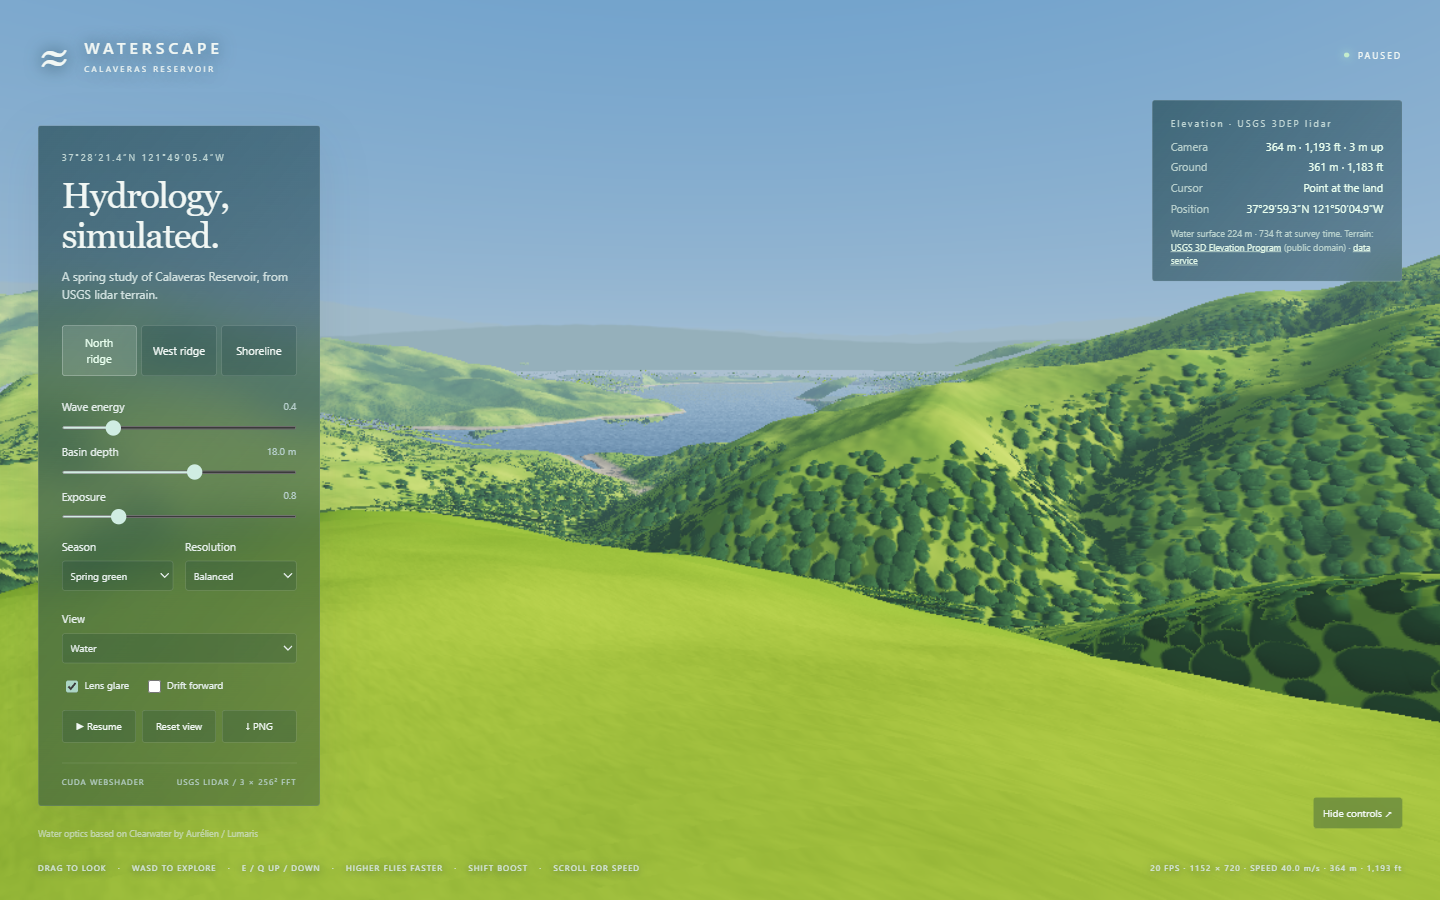
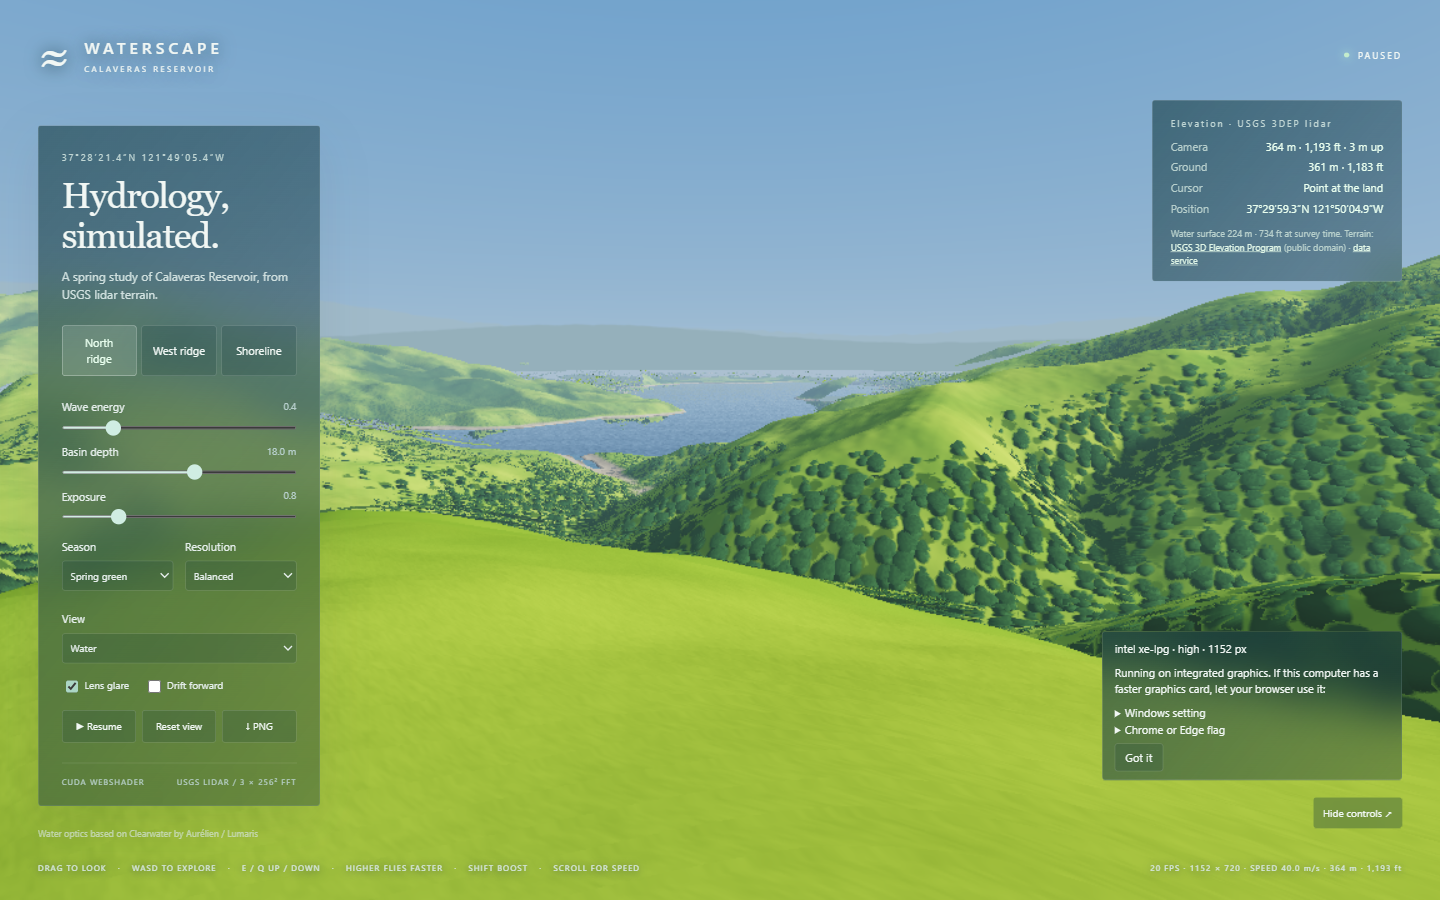
Show the GPU and quality, and how to use a faster GPU
A chip names the adapter and tier in 3D; on Intel graphics (or the low
tier) a dismissable tip explains the Windows graphics setting and the
Chrome/Edge flag, since browsers ignore a page's GPU preference.

Changed region(s): [[0.75, 0.6844, 1.0, 0.8711]]

diff --git a/renderer/explore.js b/renderer/explore.js
@@ -1,6 +1,6 @@
 import { GpuRuntime } from "../vendor/cuda-webshader/runtime/runtime.js";
 import { formatElevation, formatLatLon, loadTerrain } from "./terrain.js";
-import { LEVELS, QualityGovernor, forcedTier, startingLevel } from "./quality.js";
+import { QualityGovernor, TIER_NAMES, forcedTier, startingLevel } from "./quality.js";
 const $ = (id) => document.getElementById(id),
   canvas = $("water"),
   q = new URLSearchParams(location.search);
@@ -172,6 +172,28 @@ function buildPresets() {
 let hover = null;
 canvas.addEventListener("pointermove", (e) => (hover = e));
 canvas.addEventListener("pointerleave", () => (hover = null));
+// GPU chip and the "use your faster GPU" tip (browsers on dual-GPU laptops default to the
+// integrated GPU and ignore a page's powerPreference, so only the visitor can change it).
+function tipDismissed() {
+  try {
+    return localStorage.getItem("waterscape.gpuTipDismissed") === "1";
+  } catch {
+    return false;
+  }
+}
+function updateGpu() {
+  const { vendor, tier, width } = diag.quality,
+    arch = rt.describe().architecture;
+  $("gpuChip").textContent = `${vendor}${arch ? " " + arch : ""} · ${TIER_NAMES[tier]} · ${width} px`;
+  $("gpuTip").hidden = tipDismissed() || !(vendor === "intel" || tier === 0);
+}
+$("gpuTipDismiss").onclick = () => {
+  try {
+    localStorage.setItem("waterscape.gpuTipDismissed", "1");
+  } catch {}
+  $("gpuTip").hidden = true;
+};
+
 function survey() {
   const ground = terrain.ground(state.x, state.z);
   $("elevCamera").textContent =
@@ -534,6 +556,7 @@ async function frame(now) {
         $("metrics").textContent =
           `${Math.round(1 / dt)} FPS · ${width} × ${height} · SPEED ${state.speed * boost < 100 ? (state.speed * boost).toFixed(1) : Math.round(state.speed * boost).toLocaleString()} m/s · ${formatElevation(terrain.elevation(state.y))}`;
         survey();
+        updateGpu();
         if (embedded)
           parent.postMessage(
             {
@@ -722,6 +745,7 @@ try {
     $("quality").value = String(governor.current.width);
   } else state.quality = forced;
   diag.quality = { tier: state.quality, width: +$("quality").value, auto: !!governor, vendor, struggling: false };
+  updateGpu();
   ctx = canvas.getContext("webgpu");
   const source = await (await fetch(new URL("./clearwater.cu", import.meta.url))).text();
   $("loadText").textContent = "Loading USGS lidar terrain…";

diff --git a/renderer/explore.html b/renderer/explore.html
@@ -92,6 +92,21 @@
         <span>CUDA WEBSHADER</span><span>USGS LIDAR / 3 × 256² FFT</span>
       </div>
     </main>
+    <aside id="gpu" class="gpu" aria-label="Graphics and quality">
+      <span id="gpuChip"></span>
+      <div id="gpuTip" hidden>
+        <p>Running on integrated graphics. If this computer has a faster graphics card, let your browser use it:</p>
+        <details>
+          <summary>Windows setting</summary>
+          <p>Windows: Settings → System → Display → Graphics → your browser → Options → High performance, then fully quit and reopen the browser.</p>
+        </details>
+        <details>
+          <summary>Chrome or Edge flag</summary>
+          <p>Chrome or Edge: open chrome://flags (or edge://flags), search "high performance GPU", enable it, relaunch.</p>
+        </details>
+        <button id="gpuTipDismiss">Got it</button>
+      </div>
+    </aside>
     <aside id="survey" class="survey" aria-label="Elevation readout">
       <p class="eyebrow">Elevation · USGS 3DEP lidar</p>
       <dl>

diff --git a/renderer/explore.css b/renderer/explore.css
@@ -375,3 +375,46 @@ footer b {
 .embed #toggle {
   display: none;
 }
+
+/* GPU and quality chip: shown in both the explore page and the journey's live view. */
+.gpu {
+  position: fixed;
+  right: 38px;
+  bottom: 120px;
+  max-width: 300px;
+  padding: 8px 12px;
+  font-size: 11px;
+  background: linear-gradient(130deg, #183f469e, #15363f61);
+  backdrop-filter: blur(22px);
+  border: 1px solid #ffffff26;
+  border-radius: 3px;
+}
+.gpu p {
+  margin: 8px 0;
+  line-height: 1.45;
+}
+.gpu summary {
+  cursor: pointer;
+}
+.gpu button {
+  margin-top: 6px;
+  font-size: 11px;
+  padding: 5px 10px;
+}
+.embed .gpu {
+  right: 16px;
+  bottom: 56px;
+}
+/* Narrow journey view: the stop card fills the bottom, so the chip sits in the sky above it. */
+@media (max-width: 600px) {
+  .embed .gpu {
+    top: 112px;
+    bottom: auto;
+    left: 16px;
+    right: 16px;
+    max-width: none;
+  }
+}
+.clean:not(.embed) .gpu {
+  display: none;
+}
